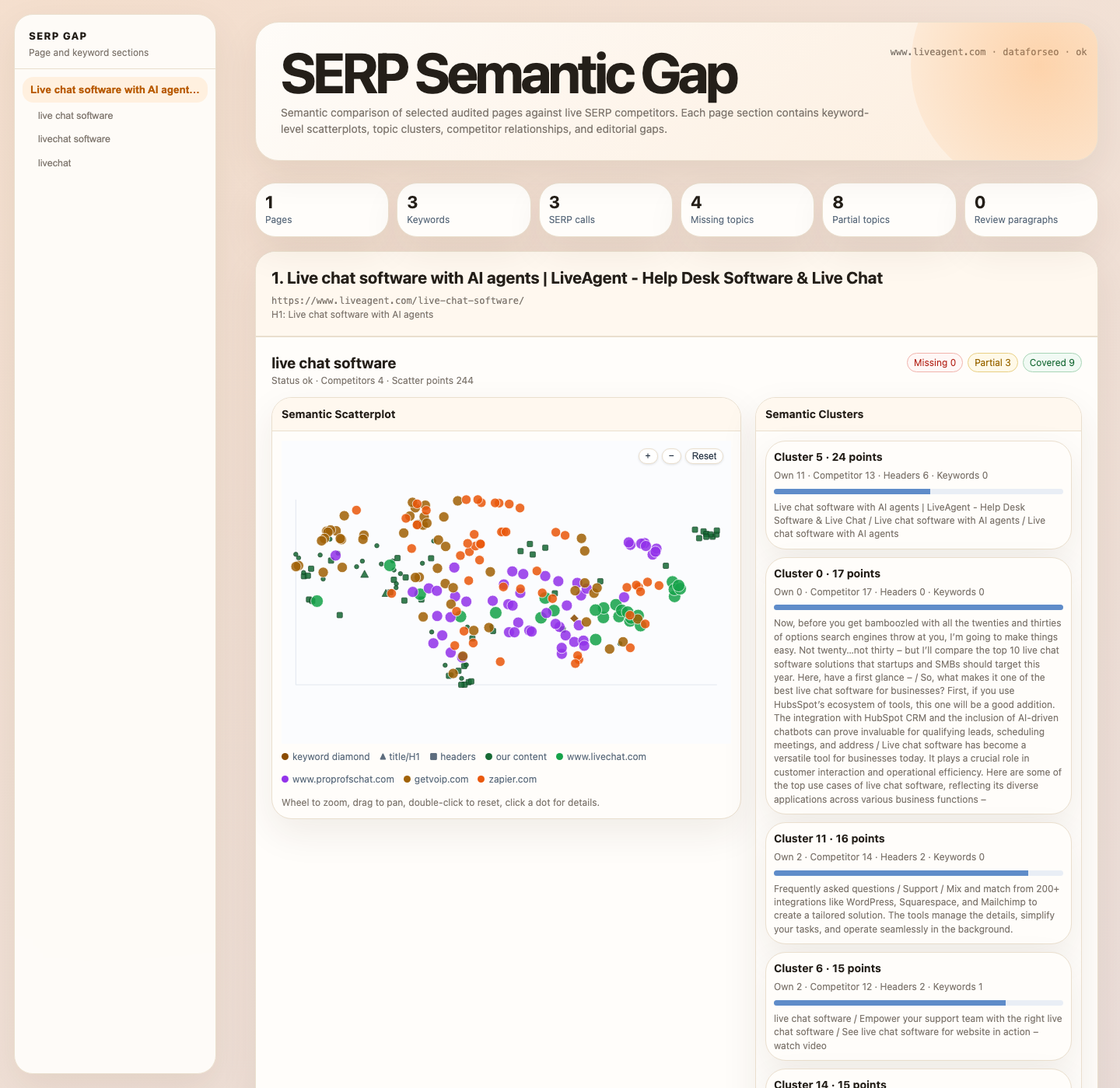
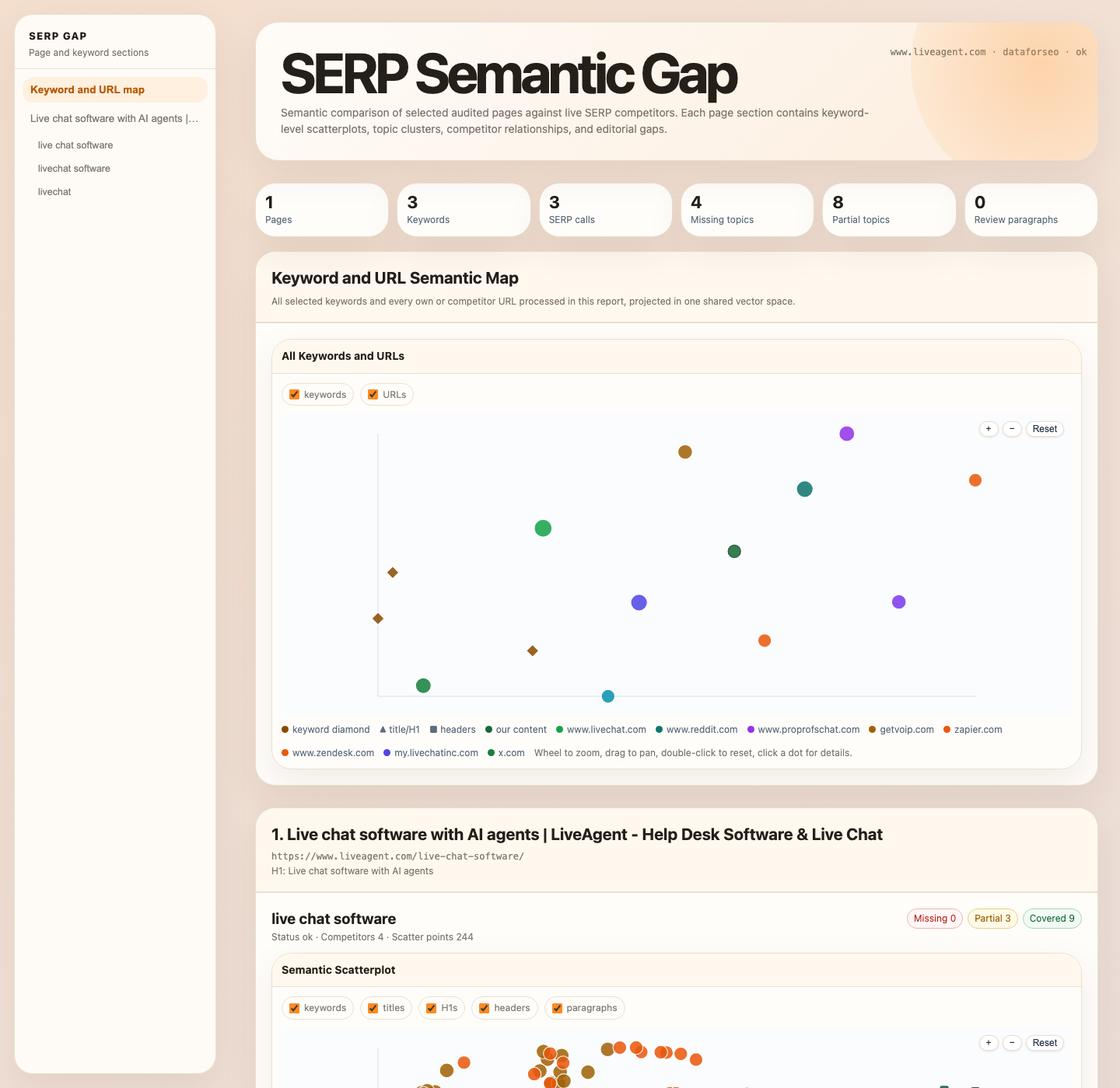
Add SERP gap overview and chart filters

diff --git a/site_audit/serp_gap.py b/site_audit/serp_gap.py
@@ -137,6 +137,10 @@ def run(config: SerpGapConfig) -> dict:
 
     page_results: list[dict] = []
     all_competitor_urls: set[str] = set()
+    overview_rows: list[dict] = []
+    overview_texts: list[str] = []
+    overview_keywords_seen: set[str] = set()
+    overview_urls_seen: set[str] = set()
     for page in selected_pages:
         page_keywords = [row for row in keyword_rows if _same_url(row["url"], page.url)]
         if not page_keywords:
@@ -146,8 +150,33 @@ def run(config: SerpGapConfig) -> dict:
             skipped_pages.append({"url": page.url, "reason": "own page fetch/extract failed"})
             continue
 
+        if page.url not in overview_urls_seen:
+            overview_urls_seen.add(page.url)
+            overview_rows.append({
+                "entity_type": "url",
+                "source": "ours",
+                "text": own_ext.title or own_ext.h1 or page.url,
+                "url": page.url,
+                "domain": urlparse(page.url).netloc,
+            })
+            overview_texts.append(" ".join([own_ext.title, own_ext.h1, page.url]).strip() or page.url)
+
         page_blocks: list[dict] = []
         for kw in page_keywords:
+            keyword_key = kw["keyword"].strip().lower()
+            if keyword_key and keyword_key not in overview_keywords_seen:
+                overview_keywords_seen.add(keyword_key)
+                overview_rows.append({
+                    "entity_type": "keyword",
+                    "source": "keyword",
+                    "text": kw["keyword"],
+                    "url": kw.get("url", page.url),
+                    "clicks": kw.get("clicks", 0),
+                    "impressions": kw.get("impressions", 0),
+                    "position": kw.get("position", ""),
+                })
+                overview_texts.append(kw["keyword"])
+
             serp = _fetch_serp(kw["keyword"], provider, cache_dir, config)
             serp_meta = serp.get("meta") or {}
             if serp_meta.get("status") != "ok":
@@ -174,6 +203,20 @@ def run(config: SerpGapConfig) -> dict:
                 _competitor_page(target, competitor_cache, embedder, config)
                 for target in targets
             ]
+            for competitor_page in competitor_pages:
+                competitor_url = competitor_page.target.competitor_url
+                if competitor_url in overview_urls_seen:
+                    continue
+                overview_urls_seen.add(competitor_url)
+                overview_rows.append({
+                    "entity_type": "url",
+                    "source": "competitor",
+                    "domain": urlparse(competitor_url).netloc,
+                    "url": competitor_url,
+                    "rank": competitor_page.target.rank,
+                    "text": competitor_page.title or competitor_url,
+                })
+                overview_texts.append(" ".join([competitor_page.title, competitor_url]).strip() or competitor_url)
             gap = _build_gap(page, kw, own_ext, competitor_pages, embedder, config)
             gap["serp"] = {
                 "provider": provider,
@@ -202,6 +245,7 @@ def run(config: SerpGapConfig) -> dict:
         "selected_keywords": keyword_rows,
         "skipped_pages": skipped_pages,
         "skipped_keywords": skipped_keywords,
+        "overview_scatter": _overview_scatter(overview_rows, overview_texts, embedder),
         "pages": page_results,
     }
     _write_outputs(payload, report_dir)
@@ -641,6 +685,41 @@ def _scatter(
     return {"points": points[:1600], "shown": min(len(points), 1600), "total": len(points)}
 
 
+def _overview_scatter(rows: list[dict], texts: list[str], embedder: Embedder) -> dict:
+    usable = [(row, text) for row, text in zip(rows, texts) if str(text or "").strip()]
+    if not usable:
+        return {"points": [], "shown": 0, "total": 0}
+    rows = [row for row, _ in usable]
+    texts = [text for _, text in usable]
+    matrix = embedder.encode(texts, batch_size=64).astype(np.float32)
+    labels, coords = project(matrix, num_clusters=min(30, max(2, len(matrix) // 3)))
+    keyword_indexes = [i for i, row in enumerate(rows) if row.get("entity_type") == "keyword"]
+    keyword_matrix = matrix[keyword_indexes] if keyword_indexes else np.zeros((0, matrix.shape[1]), dtype=np.float32)
+    keyword_labels = [str(rows[i].get("text") or "") for i in keyword_indexes]
+    points = []
+    for i, row in enumerate(rows):
+        nearest_keyword = ""
+        similarity = 0.0
+        if row.get("entity_type") == "keyword":
+            nearest_keyword = str(row.get("text") or "")
+            similarity = 1.0
+        elif len(keyword_matrix):
+            similarities = keyword_matrix @ matrix[i]
+            best = int(np.argmax(similarities))
+            similarity = float(np.clip(similarities[best], -1.0, 1.0))
+            nearest_keyword = keyword_labels[best]
+        points.append({
+            **row,
+            "x": round(float(coords[i, 0]), 5),
+            "y": round(float(coords[i, 1]), 5),
+            "cluster": int(labels[i]),
+            "nearest_keyword": nearest_keyword,
+            "keyword_similarity": round(similarity, 4),
+            "keyword_distance": round(1.0 - similarity, 4),
+        })
+    return {"points": points[:1600], "shown": min(len(points), 1600), "total": len(points)}
+
+
 def _summary(page_results: list[dict], selected_pages: list[PageInfo], keyword_rows: list[dict], plan: dict) -> dict:
     analyses = [a for p in page_results for a in p.get("analyses", [])]
     summaries = [a.get("summary") or {} for a in analyses if a.get("status") == "ok"]
@@ -781,6 +860,71 @@ def _html(payload: dict) -> str:
   .tip-head { background: var(--audit-accent-soft); border-color: var(--audit-line); }
   .tip-title { color: var(--audit-text); }
   .tip-text { border-left-color: var(--audit-accent); background: #fffdfa; color: var(--audit-text); }
+  .keyword-grid { display: block; }
+  .keyword-grid > .panel { width: 100%; }
+  .tables {
+    display: grid;
+    grid-template-columns: minmax(0, 1fr) minmax(0, 1fr);
+    gap: 14px;
+    margin-top: 14px;
+  }
+  .scatter-filters {
+    display: flex;
+    flex-wrap: wrap;
+    gap: 8px;
+    margin-bottom: 10px;
+  }
+  .scatter-filter {
+    display: inline-flex;
+    align-items: center;
+    gap: 6px;
+    border: 1px solid var(--audit-line);
+    border-radius: 999px;
+    background: #fffdfa;
+    color: var(--audit-muted);
+    cursor: pointer;
+    font-size: 0.76rem;
+    padding: 5px 9px;
+    user-select: none;
+  }
+  .scatter-filter input {
+    width: 13px;
+    height: 13px;
+    margin: 0;
+    accent-color: var(--audit-accent);
+  }
+  .topic-chart {
+    display: grid;
+    gap: 9px;
+    margin-bottom: 12px;
+  }
+  .topic-chart-row {
+    display: grid;
+    grid-template-columns: minmax(180px, 0.9fr) minmax(220px, 1.5fr) 64px;
+    gap: 10px;
+    align-items: center;
+  }
+  .topic-chart-label {
+    min-width: 0;
+    overflow: hidden;
+    text-overflow: ellipsis;
+    white-space: nowrap;
+    font-weight: 700;
+  }
+  .topic-chart-track {
+    height: 11px;
+    overflow: hidden;
+    border-radius: 999px;
+    background: #f2e7d9;
+  }
+  .topic-chart-bar {
+    display: block;
+    height: 100%;
+    border-radius: 999px;
+  }
+  .topic-chart-bar.coverage-missing { background: var(--audit-red); }
+  .topic-chart-bar.coverage-partial { background: var(--audit-accent); }
+  .topic-chart-bar.coverage-covered { background: var(--audit-green); }
   a { color: var(--audit-accent-dark); }
   button { transition: transform 140ms ease, box-shadow 140ms ease, background 140ms ease; }
   button:hover { transform: translateY(-1px); }
@@ -867,6 +1011,7 @@ def _html(payload: dict) -> str:
     .report-sidebar { position: static; width: auto; margin: 14px; }
     .wrap { margin-left: 0; padding: 14px; }
     #status { min-width: 0; text-align: left; white-space: normal; }
+    .tables, .topic-chart-row { grid-template-columns: 1fr; }
   }
 </style>
 <body>
@@ -880,11 +1025,13 @@ def _html(payload: dict) -> str:
 <div class="wrap">
   <div class="topbar"><div class="title"><h1>SERP Semantic Gap</h1><p>Semantic comparison of selected audited pages against live SERP competitors. Each page section contains keyword-level scatterplots, topic clusters, competitor relationships, and editorial gaps.</p></div><div class="url" id="status"></div></div>
   <div class="summary" id="summary"></div>
+  <div id="overview"></div>
   <div id="app"></div>
 </div>
 <script>
 const data = __DATA__;
 const app = document.getElementById('app');
+const overviewEl = document.getElementById('overview');
 const summaryEl = document.getElementById('summary');
 const statusEl = document.getElementById('status');
 const navEl = document.getElementById('report-nav');
@@ -899,27 +1046,34 @@ function sourceColor(p){if(p.entity_type==='keyword')return colors.keyword;if(p.
 function metrics(){const s=data.summary||{};return [['Pages',s.pages_analyzed||0],['Keywords',s.keywords_selected||0],['SERP calls',s.serp_api_calls_after_cache ?? s.serp_api_calls ?? 0],['Missing topics',s.missing_topics||0],['Partial topics',s.partial_topics||0],['Review paragraphs',s.off_intent_paragraphs||0]];}
 statusEl.textContent = `${data.domain || ''} · ${data.provider || ''} · ${data.status || ''}`;
 summaryEl.innerHTML = metrics().map(([label,value])=>`<div class="metric"><b>${n(value)}</b><span>${esc(label)}</span></div>`).join('');
-function pointLabel(d){if(d.type==='keyword')return 'Keyword';if(d.type==='title')return 'Page title';if(d.type==='h1')return 'H1 heading';if(d.type==='header')return 'Header';if(d.source==='ours')return 'Our paragraph';if(d.source==='competitor')return 'Competitor paragraph';return d.type||'Point';}
-function pointDetail(p){const type=p.entity_type||'point';return{type,source:p.source||'',cluster:p.cluster??'',domain:p.domain||'',rank:p.rank||'',url:p.url||'',text:String(p.text||'').slice(0,520),keyword_similarity:p.keyword_similarity??'',keyword_distance:p.keyword_distance??''};}
+function pointLabel(d){if(d.type==='keyword')return 'Keyword';if(d.type==='url'&&d.source==='ours')return 'Our URL';if(d.type==='url'&&d.source==='competitor')return 'Competitor URL';if(d.type==='url')return 'URL';if(d.type==='title')return 'Page title';if(d.type==='h1')return 'H1 heading';if(d.type==='header')return 'Header';if(d.source==='ours')return 'Our paragraph';if(d.source==='competitor')return 'Competitor paragraph';return d.type||'Point';}
+function pointDetail(p){const type=p.entity_type||'point';return{type,source:p.source||'',cluster:p.cluster??'',domain:p.domain||'',rank:p.rank||'',url:p.url||'',text:String(p.text||'').slice(0,520),nearest_keyword:p.nearest_keyword||'',keyword_similarity:p.keyword_similarity??'',keyword_distance:p.keyword_distance??''};}
 function pointTooltip(p){const d=pointDetail(p);return [pointLabel(d),d.text,d.keyword_distance!==''&&`Keyword distance: ${d.keyword_distance}`,d.keyword_similarity!==''&&`Keyword similarity: ${d.keyword_similarity}`,d.domain&&`Domain: ${d.domain}`,d.rank&&`SERP rank: ${d.rank}`,d.cluster!==''&&`Cluster: ${d.cluster}`].filter(Boolean).join('\\n');}
-function pointDetailHtml(d){const sourceClass=d.type==='keyword'?'keyword':d.source==='ours'?'ours':d.source==='competitor'?'competitor':'';const badges=[];badges.push(`<span class="tip-badge ${sourceClass}">${esc(d.source||d.type)}</span>`);if(d.keyword_distance!==''&&d.keyword_distance!==undefined)badges.push(`<span class="tip-badge">distance ${esc(d.keyword_distance)}</span>`);if(d.keyword_similarity!==''&&d.keyword_similarity!==undefined)badges.push(`<span class="tip-badge">similarity ${esc(d.keyword_similarity)}</span>`);if(d.domain)badges.push(`<span class="tip-badge">${esc(d.domain)}</span>`);if(d.rank)badges.push(`<span class="tip-badge">rank ${esc(d.rank)}</span>`);if(d.cluster!==''&&d.cluster!==undefined)badges.push(`<span class="tip-badge">cluster ${esc(d.cluster)}</span>`);return `<div class="tip-head"><div><div class="tip-title">${esc(pointLabel(d))}</div>${d.url?`<div class="tip-sub">${esc(d.url)}</div>`:''}</div><button class="tip-close" type="button" aria-label="Close tooltip">x</button></div><div class="tip-body"><div class="tip-badges">${badges.join('')}</div><div class="tip-text">${esc(d.text||'(no text captured)')}</div></div>`;}
+function pointDetailHtml(d){const sourceClass=d.type==='keyword'?'keyword':d.source==='ours'?'ours':d.source==='competitor'?'competitor':'';const badges=[];badges.push(`<span class="tip-badge ${sourceClass}">${esc(d.source||d.type)}</span>`);if(d.nearest_keyword&&d.type!=='keyword')badges.push(`<span class="tip-badge">nearest ${esc(d.nearest_keyword)}</span>`);if(d.keyword_distance!==''&&d.keyword_distance!==undefined)badges.push(`<span class="tip-badge">distance ${esc(d.keyword_distance)}</span>`);if(d.keyword_similarity!==''&&d.keyword_similarity!==undefined)badges.push(`<span class="tip-badge">similarity ${esc(d.keyword_similarity)}</span>`);if(d.domain)badges.push(`<span class="tip-badge">${esc(d.domain)}</span>`);if(d.rank)badges.push(`<span class="tip-badge">rank ${esc(d.rank)}</span>`);if(d.cluster!==''&&d.cluster!==undefined)badges.push(`<span class="tip-badge">cluster ${esc(d.cluster)}</span>`);return `<div class="tip-head"><div><div class="tip-title">${esc(pointLabel(d))}</div>${d.url?`<div class="tip-sub">${esc(d.url)}</div>`:''}</div><button class="tip-close" type="button" aria-label="Close tooltip">x</button></div><div class="tip-body"><div class="tip-badges">${badges.join('')}</div><div class="tip-text">${esc(d.text||'(no text captured)')}</div></div>`;}
 function clusterSummary(points){const groups=new Map();for(const p of points||[]){const id=p.cluster ?? 0;const g=groups.get(id)||{id,total:0,ours:0,competitor:0,keyword:0,headers:0,samples:[]};g.total++;if(p.entity_type==='keyword')g.keyword++;else if(p.source==='ours')g.ours++;else if(p.source==='competitor')g.competitor++;if(['h1','header','title'].includes(p.entity_type))g.headers++;if(g.samples.length<3 && p.text)g.samples.push(p.text);groups.set(id,g);}return [...groups.values()].sort((a,b)=>b.total-a.total).slice(0,8);}
-function pointSize(p){if(p.clicks)return Math.max(5,Math.min(14,4+Math.sqrt(Number(p.clicks)||0)));if(p.rank)return Math.max(4.5,12-Number(p.rank||10)*0.65);if(p.entity_type==='keyword')return 8;if(p.entity_type==='title'||p.entity_type==='h1')return 7;if(p.entity_type==='header')return 5.8;return 3.9;}
-function markerSvg(p, xRaw, yRaw, color, stroke, tip, detail){const x=Number(xRaw),y=Number(yRaw);const type=p.entity_type||'paragraph';const size=pointSize(p);const attrs=`class="scatter-point" tabindex="0" fill="${color}" stroke="${stroke}" stroke-width="1.2" opacity=".86" aria-label="${esc(tip)}" data-tooltip="${esc(tip)}" data-detail="${esc(detail)}"`;const title=`<title>${esc(tip)}</title>`;if(type==='keyword'){return `<polygon ${attrs} points="${x},${y-size} ${x+size},${y} ${x},${y+size} ${x-size},${y}">${title}</polygon>`;}if(type==='title'||type==='h1'){return `<polygon ${attrs} points="${x},${y-size} ${x+size},${y+size*.85} ${x-size},${y+size*.85}">${title}</polygon>`;}if(type==='header'){const s=size*1.7;return `<rect ${attrs} x="${x-s/2}" y="${y-s/2}" width="${s}" height="${s}" rx="1.5">${title}</rect>`;}return `<circle ${attrs} cx="${x}" cy="${y}" r="${size}">${title}</circle>`;}
-function scatterSvg(points){if(!points||!points.length)return '<div class="empty">No scatter data available for this keyword.</div>';const w=820,h=390,pad=26;const xs=points.map(p=>+p.x),ys=points.map(p=>+p.y);let minX=Math.min(...xs),maxX=Math.max(...xs),minY=Math.min(...ys),maxY=Math.max(...ys);if(minX===maxX){minX-=1;maxX+=1}if(minY===maxY){minY-=1;maxY+=1}const sx=x=>pad+(x-minX)/(maxX-minX)*(w-pad*2);const sy=y=>h-pad-(y-minY)/(maxY-minY)*(h-pad*2);const marks=points.map(p=>{const x=sx(+p.x).toFixed(1),y=sy(+p.y).toFixed(1);const stroke=p.source==='ours'?'#0b3d1e':'#fff';const tip=pointTooltip(p);const detail=JSON.stringify(pointDetail(p));return markerSvg(p,x,y,sourceColor(p),stroke,tip,detail);}).join('');const competitorDomains=[...new Set(points.filter(p=>p.source==='competitor'&&p.domain).map(p=>p.domain))].slice(0,8);const domainLegend=competitorDomains.map(d=>`<span><i class="dot" style="background:${domainColor(d)}"></i>${esc(d)}</span>`).join('');return `<div class="scatter-wrap"><div class="scatter-controls" aria-label="Scatterplot zoom controls"><button type="button" data-zoom="in" title="Zoom in">+</button><button type="button" data-zoom="out" title="Zoom out">−</button><button type="button" data-zoom="reset" title="Reset zoom">Reset</button></div><svg class="scatter" viewBox="0 0 ${w} ${h}" data-base-viewbox="0 0 ${w} ${h}" role="img" aria-label="Semantic scatterplot. Wheel to zoom, drag to pan, double-click to reset, click or focus dots for point explanations."><rect x="0" y="0" width="${w}" height="${h}" fill="#fbfcfe"/><line x1="${pad}" x2="${w-pad}" y1="${h-pad}" y2="${h-pad}" stroke="#d7dee8"/><line x1="${pad}" x2="${pad}" y1="${pad}" y2="${h-pad}" stroke="#d7dee8"/>${marks}</svg><div class="scatter-tooltip" role="dialog" aria-live="polite" aria-label="Scatter point details"></div></div><div class="legend"><span><i class="dot" style="background:${colors.keyword};transform:rotate(45deg)"></i>keyword diamond</span><span>▲ title/H1</span><span>■ headers</span><span><i class="dot" style="background:${colors.ours}"></i>our content</span>${domainLegend}<span class="muted">Wheel to zoom, drag to pan, double-click to reset, click a dot for details.</span></div>`;}
+function pointSize(p){if(p.clicks)return Math.max(5,Math.min(14,4+Math.sqrt(Number(p.clicks)||0)));if(p.rank)return Math.max(4.5,12-Number(p.rank||10)*0.65);if(p.entity_type==='keyword')return 8;if(p.entity_type==='url')return 8;if(p.entity_type==='title'||p.entity_type==='h1')return 7;if(p.entity_type==='header')return 5.8;return 3.9;}
+function markerSvg(p, xRaw, yRaw, color, stroke, tip, detail){const x=Number(xRaw),y=Number(yRaw);const type=p.entity_type||'paragraph';const size=pointSize(p);const attrs=`class="scatter-point" tabindex="0" fill="${color}" stroke="${stroke}" stroke-width="1.2" opacity=".86" aria-label="${esc(tip)}" data-tooltip="${esc(tip)}" data-detail="${esc(detail)}" data-entity="${esc(type)}"`;const title=`<title>${esc(tip)}</title>`;if(type==='keyword'){return `<polygon ${attrs} points="${x},${y-size} ${x+size},${y} ${x},${y+size} ${x-size},${y}">${title}</polygon>`;}if(type==='title'||type==='h1'){return `<polygon ${attrs} points="${x},${y-size} ${x+size},${y+size*.85} ${x-size},${y+size*.85}">${title}</polygon>`;}if(type==='header'){const s=size*1.7;return `<rect ${attrs} x="${x-s/2}" y="${y-s/2}" width="${s}" height="${s}" rx="1.5">${title}</rect>`;}return `<circle ${attrs} cx="${x}" cy="${y}" r="${size}">${title}</circle>`;}
+function entityLabel(type){return ({keyword:'keywords',url:'URLs',title:'titles',h1:'H1s',header:'headers',paragraph:'paragraphs'}[type]||type);}
+function entityFilters(points){const order=['keyword','url','title','h1','header','paragraph'];const types=[...new Set((points||[]).map(p=>p.entity_type||'paragraph'))].sort((a,b)=>order.indexOf(a)-order.indexOf(b));return `<div class="scatter-filters" aria-label="Visible entity types">${types.map(type=>`<label class="scatter-filter"><input type="checkbox" data-entity-filter="${esc(type)}" checked> ${esc(entityLabel(type))}</label>`).join('')}</div>`;}
+function scatterSvg(points){if(!points||!points.length)return '<div class="empty">No scatter data available for this keyword.</div>';const w=820,h=390,pad=26;const xs=points.map(p=>+p.x),ys=points.map(p=>+p.y);let minX=Math.min(...xs),maxX=Math.max(...xs),minY=Math.min(...ys),maxY=Math.max(...ys);if(minX===maxX){minX-=1;maxX+=1}if(minY===maxY){minY-=1;maxY+=1}const sx=x=>pad+(x-minX)/(maxX-minX)*(w-pad*2);const sy=y=>h-pad-(y-minY)/(maxY-minY)*(h-pad*2);const marks=points.map(p=>{const x=sx(+p.x).toFixed(1),y=sy(+p.y).toFixed(1);const stroke=p.source==='ours'?'#0b3d1e':'#fff';const tip=pointTooltip(p);const detail=JSON.stringify(pointDetail(p));return markerSvg(p,x,y,sourceColor(p),stroke,tip,detail);}).join('');const competitorDomains=[...new Set(points.filter(p=>p.source==='competitor'&&p.domain).map(p=>p.domain))].slice(0,8);const domainLegend=competitorDomains.map(d=>`<span><i class="dot" style="background:${domainColor(d)}"></i>${esc(d)}</span>`).join('');return `${entityFilters(points)}<div class="scatter-wrap"><div class="scatter-controls" aria-label="Scatterplot zoom controls"><button type="button" data-zoom="in" title="Zoom in">+</button><button type="button" data-zoom="out" title="Zoom out">−</button><button type="button" data-zoom="reset" title="Reset zoom">Reset</button></div><svg class="scatter" viewBox="0 0 ${w} ${h}" data-base-viewbox="0 0 ${w} ${h}" role="img" aria-label="Semantic scatterplot. Wheel to zoom, drag to pan, double-click to reset, click or focus dots for point explanations."><rect x="0" y="0" width="${w}" height="${h}" fill="#fbfcfe"/><line x1="${pad}" x2="${w-pad}" y1="${h-pad}" y2="${h-pad}" stroke="#d7dee8"/><line x1="${pad}" x2="${pad}" y1="${pad}" y2="${h-pad}" stroke="#d7dee8"/>${marks}</svg><div class="scatter-tooltip" role="dialog" aria-live="polite" aria-label="Scatter point details"></div></div><div class="legend"><span><i class="dot" style="background:${colors.keyword};transform:rotate(45deg)"></i>keyword diamond</span><span>▲ title/H1</span><span>■ headers</span><span><i class="dot" style="background:${colors.ours}"></i>our content</span>${domainLegend}<span class="muted">Wheel to zoom, drag to pan, double-click to reset, click a dot for details.</span></div>`;}
+function topicChart(topics){if(!topics||!topics.length)return '<div class="empty">No topic relation chart available.</div>';const maxSeen=Math.max(1,...topics.map(t=>Number(t.competitor_coverage||0)));return `<div class="topic-chart">${topics.slice(0,12).map(t=>{const seen=Number(t.competitor_coverage||0);const sim=Number(t.our_best_similarity||0);const width=Math.max(5,Math.min(100,Math.round((seen/maxSeen)*100)));return `<div class="topic-chart-row"><div class="topic-chart-label" title="${esc(t.label||'')}">${esc(t.label||'Untitled topic')}</div><div class="topic-chart-track" title="Seen on ${seen} competitor pages; own similarity ${sim.toFixed(2)}"><span class="topic-chart-bar coverage-${esc(t.coverage||'partial')}" style="width:${width}%"></span></div><div class="mini">${esc(t.coverage||'')}</div></div>`;}).join('')}</div>`;}
 function topicRows(topics, limit=12){if(!topics||!topics.length)return '<tr><td colspan="6" class="muted">No topics classified.</td></tr>';return topics.slice(0,limit).map(t=>{const ex=(t.examples||[])[0]||{};return `<tr><td class="coverage-${esc(t.coverage)}">${esc(t.coverage)}</td><td>${esc(t.priority)}</td><td><div class="topic-label">${esc(t.label)}</div><div class="mini">${esc(ex.paragraph||'')}</div></td><td>${esc(t.competitor_coverage)}/${esc(t.competitor_urls?.length||'')}</td><td>${esc(t.our_best_similarity)}</td><td>${esc(ex.url||'')}</td></tr>`}).join('');}
 function clusterCards(points){const clusters=clusterSummary(points);if(!clusters.length)return '<div class="empty">No semantic clusters available.</div>';return '<div class="cluster-list">'+clusters.map(c=>`<div class="cluster"><strong>Cluster ${esc(c.id)} · ${n(c.total)} points</strong><div class="mini">Own ${n(c.ours)} · Competitor ${n(c.competitor)} · Headers ${n(c.headers)} · Keywords ${n(c.keyword)}</div><div class="bar"><span style="width:${Math.min(100,Math.round((c.competitor/Math.max(c.total,1))*100))}%"></span></div><div class="mini">${esc(c.samples.join(' / '))}</div></div>`).join('')+'</div>';}
 function competitorList(rows){if(!rows||!rows.length)return '<div class="empty">No competitors fetched.</div>';return '<ol class="competitors">'+rows.map(c=>`<li><a href="${esc(c.url)}">${esc(c.title||c.url)}</a><div class="mini">Rank ${esc(c.rank||'')} · Paragraphs ${esc(c.paragraph_count||0)}${c.error?' · '+esc(c.error):''}</div></li>`).join('')+'</ol>';}
 function reviewList(rows){if(!rows||!rows.length)return '<div class="empty">No own paragraphs were far from the SERP topic space.</div>';return '<ul class="review">'+rows.map(p=>`<li><b>${esc(p.similarity_to_serp_topics)}</b> <span class="mini">similarity</span><br>${esc(p.paragraph)}</li>`).join('')+'</ul>';}
 function keywordId(pageIndex, keywordIndex){return `keyword-${pageIndex}-${keywordIndex}`;}
-function keywordCard(a, pageIndex, keywordIndex){const s=a.summary||{};const points=a.scatter?.points||[];return `<div class="keyword-card" id="${keywordId(pageIndex, keywordIndex)}"><div class="keyword-head"><div><h3>${esc(a.query || a.keyword?.keyword || '')}</h3><div class="mini">Status ${esc(a.status)} · Competitors ${esc(a.competitors||a.competitor_pages?.length||0)} · Scatter points ${esc(a.scatter?.shown||0)}</div></div><div class="chips"><span class="chip missing">Missing ${n(s.missing||0)}</span><span class="chip partial">Partial ${n(s.partial||0)}</span><span class="chip covered">Covered ${n(s.covered||0)}</span></div></div><div class="keyword-grid"><div class="panel"><h4>Semantic Scatterplot</h4><div class="panel-body">${scatterSvg(points)}</div></div><div class="tables"><div class="panel"><h4>Semantic Clusters</h4><div class="panel-body">${clusterCards(points)}</div></div><div class="panel"><h4>Competitor SERP</h4><div class="panel-body">${competitorList(a.competitor_pages)}</div></div></div></div><div class="two-col" style="margin-top:14px"><div class="panel"><h4>Topic Relations</h4><table><thead><tr><th>Coverage</th><th>Priority</th><th>Topic and Example</th><th>Seen</th><th>Own sim</th><th>Example URL</th></tr></thead><tbody>${topicRows(a.topics,18)}</tbody></table></div><div class="panel"><h4>Own Paragraphs To Review</h4><div class="panel-body">${reviewList(a.off_intent_paragraphs)}</div></div></div></div>`;}
+function overviewSection(){const points=data.overview_scatter?.points||[];return `<section class="page-section" id="overview-section"><div class="page-head"><h2>Keyword and URL Semantic Map</h2><div class="mini">All selected keywords and every own or competitor URL processed in this report, projected in one shared vector space.</div></div><div class="keyword-card"><div class="panel"><h4>All Keywords and URLs</h4><div class="panel-body">${scatterSvg(points)}</div></div></div></section>`;}
+function keywordCard(a, pageIndex, keywordIndex){const s=a.summary||{};const points=a.scatter?.points||[];return `<div class="keyword-card" id="${keywordId(pageIndex, keywordIndex)}"><div class="keyword-head"><div><h3>${esc(a.query || a.keyword?.keyword || '')}</h3><div class="mini">Status ${esc(a.status)} · Competitors ${esc(a.competitors||a.competitor_pages?.length||0)} · Scatter points ${esc(a.scatter?.shown||0)}</div></div><div class="chips"><span class="chip missing">Missing ${n(s.missing||0)}</span><span class="chip partial">Partial ${n(s.partial||0)}</span><span class="chip covered">Covered ${n(s.covered||0)}</span></div></div><div class="keyword-grid"><div class="panel"><h4>Semantic Scatterplot</h4><div class="panel-body">${scatterSvg(points)}</div></div><div class="tables"><div class="panel"><h4>Semantic Clusters</h4><div class="panel-body">${clusterCards(points)}</div></div><div class="panel"><h4>Competitor SERP</h4><div class="panel-body">${competitorList(a.competitor_pages)}</div></div></div></div><div class="two-col" style="margin-top:14px"><div class="panel"><h4>Topic Relations</h4><div class="panel-body">${topicChart(a.topics)}</div><table><thead><tr><th>Coverage</th><th>Priority</th><th>Topic and Example</th><th>Seen</th><th>Own sim</th><th>Example URL</th></tr></thead><tbody>${topicRows(a.topics,18)}</tbody></table></div><div class="panel"><h4>Own Paragraphs To Review</h4><div class="panel-body">${reviewList(a.off_intent_paragraphs)}</div></div></div></div>`;}
 function pageSection(page, index){return `<section class="page-section" id="page-${index}"><div class="page-head"><h2>${index+1}. ${esc(page.title || page.url)}</h2><div class="url">${esc(page.url)}</div>${page.h1?`<div class="mini">H1: ${esc(page.h1)}</div>`:''}</div>${(page.analyses||[]).map((analysis, keywordIndex)=>keywordCard(analysis, index, keywordIndex)).join('') || '<div class="empty">No keyword analyses for this page.</div>'}</section>`;}
-function buildNav(){if(!navEl)return;navEl.innerHTML=(data.pages||[]).map((page,pageIndex)=>`<button type="button" class="report-nav-button" data-target="page-${pageIndex}"><span class="report-nav-label">${esc(page.title||page.url||`Page ${pageIndex+1}`)}</span></button>${(page.analyses||[]).map((analysis,keywordIndex)=>`<button type="button" class="report-nav-button nav-keyword" data-target="${keywordId(pageIndex,keywordIndex)}"><span class="report-nav-label">${esc(analysis.query||analysis.keyword?.keyword||`Keyword ${keywordIndex+1}`)}</span></button>`).join('')}`).join('');const buttons=[...navEl.querySelectorAll('.report-nav-button')];const sections=buttons.map(button=>document.getElementById(button.dataset.target||'')).filter(Boolean);buttons.forEach(button=>button.addEventListener('click',()=>{const target=document.getElementById(button.dataset.target||'');if(target)target.scrollIntoView({block:'start',behavior:'smooth'});}));function update(){let active=0;for(let i=0;i<sections.length;i++){if(sections[i].getBoundingClientRect().top<160)active=i;}buttons.forEach((button,i)=>{const selected=i===active;button.classList.toggle('is-active',selected);button.setAttribute('aria-current',selected?'page':'false');});}document.addEventListener('scroll',update,{passive:true});update();}
+function buildNav(){if(!navEl)return;navEl.innerHTML=`<button type="button" class="report-nav-button" data-target="overview-section"><span class="report-nav-label">Keyword and URL map</span></button>`+(data.pages||[]).map((page,pageIndex)=>`<button type="button" class="report-nav-button" data-target="page-${pageIndex}"><span class="report-nav-label">${esc(page.title||page.url||`Page ${pageIndex+1}`)}</span></button>${(page.analyses||[]).map((analysis,keywordIndex)=>`<button type="button" class="report-nav-button nav-keyword" data-target="${keywordId(pageIndex,keywordIndex)}"><span class="report-nav-label">${esc(analysis.query||analysis.keyword?.keyword||`Keyword ${keywordIndex+1}`)}</span></button>`).join('')}`).join('');const buttons=[...navEl.querySelectorAll('.report-nav-button')];const sections=buttons.map(button=>document.getElementById(button.dataset.target||'')).filter(Boolean);buttons.forEach(button=>button.addEventListener('click',()=>{const target=document.getElementById(button.dataset.target||'');if(target)target.scrollIntoView({block:'start',behavior:'smooth'});}));function update(){let active=0;for(let i=0;i<sections.length;i++){if(sections[i].getBoundingClientRect().top<160)active=i;}buttons.forEach((button,i)=>{const selected=i===active;button.classList.toggle('is-active',selected);button.setAttribute('aria-current',selected?'page':'false');});}document.addEventListener('scroll',update,{passive:true});update();}
 
 function bindScatterInteractions(){document.querySelectorAll('.scatter-wrap').forEach(wrap=>{const svg=wrap.querySelector('svg.scatter');const tooltip=wrap.querySelector('.scatter-tooltip');if(!svg||!tooltip)return;const base=(svg.getAttribute('data-base-viewbox')||'0 0 820 390').split(/\\s+/).map(Number);let vb={x:base[0],y:base[1],w:base[2],h:base[3]};const setVb=()=>svg.setAttribute('viewBox',`${vb.x} ${vb.y} ${vb.w} ${vb.h}`);function zoomAt(factor,cx=base[2]/2,cy=base[3]/2){const nx=cx-(cx-vb.x)*factor;const ny=cy-(cy-vb.y)*factor;vb={x:nx,y:ny,w:vb.w*factor,h:vb.h*factor};setVb();}function pointFromEvent(event){const rect=svg.getBoundingClientRect();return{x:vb.x+(event.clientX-rect.left)/Math.max(rect.width,1)*vb.w,y:vb.y+(event.clientY-rect.top)/Math.max(rect.height,1)*vb.h};}function show(point){let detail=null;try{detail=JSON.parse(point.getAttribute('data-detail')||'{}');}catch(_){detail={type:'point',explanation:point.getAttribute('data-tooltip')||point.getAttribute('aria-label')||''};}tooltip.innerHTML=pointDetailHtml(detail);tooltip.classList.add('open');tooltip.querySelector('.tip-close')?.addEventListener('click',event=>{event.stopPropagation();tooltip.classList.remove('open');});}wrap.querySelectorAll('.scatter-point').forEach(point=>{point.addEventListener('click',event=>{event.stopPropagation();show(point);});point.addEventListener('focus',()=>show(point));});svg.addEventListener('wheel',event=>{event.preventDefault();const p=pointFromEvent(event);zoomAt(event.deltaY<0?0.82:1.22,p.x,p.y);},{passive:false});let drag=null;svg.addEventListener('mousedown',event=>{if(event.target.classList?.contains('scatter-point'))return;drag={x:event.clientX,y:event.clientY,vx:vb.x,vy:vb.y};svg.classList.add('is-panning');});window.addEventListener('mousemove',event=>{if(!drag)return;const rect=svg.getBoundingClientRect();vb.x=drag.vx-(event.clientX-drag.x)/Math.max(rect.width,1)*vb.w;vb.y=drag.vy-(event.clientY-drag.y)/Math.max(rect.height,1)*vb.h;setVb();});window.addEventListener('mouseup',()=>{drag=null;svg.classList.remove('is-panning');});svg.addEventListener('dblclick',()=>{vb={x:base[0],y:base[1],w:base[2],h:base[3]};setVb();});wrap.querySelectorAll('[data-zoom]').forEach(button=>button.addEventListener('click',event=>{event.stopPropagation();const action=button.getAttribute('data-zoom');if(action==='in')zoomAt(0.78);else if(action==='out')zoomAt(1.28);else{vb={x:base[0],y:base[1],w:base[2],h:base[3]};setVb();}}));});document.addEventListener('click',event=>{const target=event.target;if(target?.closest?.('.scatter-tooltip')||target?.closest?.('.scatter-point'))return;document.querySelectorAll('.scatter-tooltip.open').forEach(t=>t.classList.remove('open'));});document.addEventListener('keydown',event=>{if(event.key==='Escape')document.querySelectorAll('.scatter-tooltip.open').forEach(t=>t.classList.remove('open'));});}
+function bindScatterFilters(){document.querySelectorAll('.panel-body').forEach(panel=>{const filters=[...panel.querySelectorAll('[data-entity-filter]')];const points=[...panel.querySelectorAll('.scatter-point')];const tooltip=panel.querySelector('.scatter-tooltip');if(!filters.length||!points.length)return;function apply(){const visible=new Set(filters.filter(input=>input.checked).map(input=>input.dataset.entityFilter));points.forEach(point=>{const show=visible.has(point.dataset.entity||'paragraph');point.style.display=show?'':'none';if(!show&&document.activeElement===point)point.blur();});tooltip?.classList.remove('open');}filters.forEach(input=>input.addEventListener('change',apply));apply();});}
+overviewEl.innerHTML = overviewSection();
 app.innerHTML = (data.pages||[]).map(pageSection).join('') || '<div class="empty">No analyzed pages in this report.</div>';
 buildNav();
 bindScatterInteractions();
+bindScatterFilters();
 </script>
 </body>
 </html>

diff --git a/tests/test_serp_gap.py b/tests/test_serp_gap.py
@@ -122,6 +122,11 @@ def test_serp_gap_html_includes_scatter_and_cluster_sections(tmp_path: Path) -> 
     assert "Semantic Scatterplot" in html
     assert "Semantic Clusters" in html
     assert "Topic Relations" in html
+    assert "Keyword and URL Semantic Map" in html
+    assert "All Keywords and URLs" in html
+    assert "overview_scatter" in html
+    assert "overview-section" in html
+    assert "nearest_keyword" in html
     assert "Wheel to zoom, drag to pan, double-click to reset" in html
     assert "pointTooltip" in html
     assert "scatter-tooltip" in html
@@ -132,6 +137,10 @@ def test_serp_gap_html_includes_scatter_and_cluster_sections(tmp_path: Path) -> 
     assert "domainColor" in html
     assert "function markerSvg" in html
     assert "function pointSize" in html
+    assert "data-entity-filter" in html
+    assert "bindScatterFilters" in html
+    assert "topicChart" in html
+    assert "topic-chart" in html
     assert "data-detail" in html
     assert "tip-badge" in html
     assert "keyword_distance" in html
